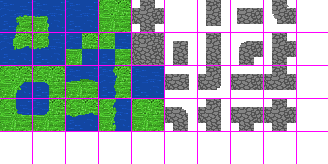
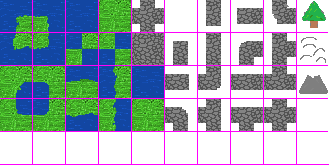
Show trees hills and mountains

Changed region(s): [[0.0, 0.0, 1.0, 1.0], [0.0305, 0.2744, 0.1524, 0.3049]]

diff --git a/GodotLords/RoadMapLayer.cs b/GodotLords/RoadMapLayer.cs
@@ -13,10 +13,16 @@ public partial class RoadMapLayer : TileMapLayer
 		for (var x = 1; x < map.Width; x++)
 			for (var y = 1; y < map.Height; y++)
 			{
-				if (map.Get(x, y) == 2)	// todo enums for types
-				{					
-		            //var tileIndex = GetTileIndex(map, x, y);
-					var tileIndex = new Vector2I(4, 1);	// We only use the tile that covers the full 32x32 sprite
+				var tileIndex = map.Get(x, y) switch 
+				{
+					TerrainType.Road => new Vector2I(4, 1),
+					TerrainType.Forest => new Vector2I(9, 0),
+					TerrainType.Hill => new Vector2I(9, 1),
+					TerrainType.Mountain => new Vector2I(9, 2),
+					_ => new Vector2I(-1,-1)
+				};
+				if (tileIndex.X > 0)	// todo...
+				{
 					this.SetCell(new Vector2I(x, y), 0, tileIndex);
 				}
 			}
@@ -26,7 +32,7 @@ public partial class RoadMapLayer : TileMapLayer
 	private Vector2I GetTileIndex(Map map, int x, int y)
 	{
 		var neighbours = new[] { map.Get(x,y-1), map.Get(x+1,y), map.Get(x,y+1), map.Get(x-1,y)};
-        var index = (neighbours[0] == 2 ? 1 : 0) + (neighbours[1] == 2 ? 1 : 0)*2 + (neighbours[2] == 2 ? 1 : 0)*4 + (neighbours[3] == 2 ? 1 : 0)*8;
+        var index = (neighbours[0] == TerrainType.Road ? 1 : 0) + (neighbours[1] == TerrainType.Road ? 1 : 0)*2 + (neighbours[2] == TerrainType.Road ? 1 : 0)*4 + (neighbours[3] == TerrainType.Road ? 1 : 0)*8;
 		var tileX = index % 4;
 		var tileY = index / 4;
         return new Vector2I(tileX+5, tileY);

diff --git a/GodotLords/Map.cs b/GodotLords/Map.cs
@@ -1,26 +1,25 @@
+using System.Collections.Generic;
 using Godot;
 
-public record Map(int[][] tiles)
+public partial record Map(TerrainType[][] tiles)
 {
     public int Height { get; set; }
     public int Width { get; set; }
-    public int Get(int x, int y) => tiles[y][x];
+    public TerrainType Get(int x, int y) => tiles[y][x];
 
-    public static Map FromImage(string path, int pixelsPerTile,  Color water, Color road)
+    public static Map FromImage(string path, int pixelsPerTile, Dictionary<Color, TerrainType> colorMapper)
     {
         var image = Image.LoadFromFile(path);
         var width = image.GetSize()[0] / pixelsPerTile;
         var height = image.GetSize()[1] / pixelsPerTile;
-        var tiles = new int[height][];
+        var tiles = new TerrainType[height][];
         for (var y = 0; y < height; y++)
         {
-            tiles[y] = new int[width];
+            tiles[y] = new TerrainType[width];
             for (var x = 0; x < width; x++)
             {
                 var color = image.GetPixel(x * pixelsPerTile, y * pixelsPerTile);
-                var isWater = color == water; 
-                var isRoad = color == road;
-                tiles[y][x] = isWater ? 0 : (isRoad ? 2 : 1);
+                tiles[y][x] = colorMapper.ContainsKey(color) ? colorMapper[color] : TerrainType.Water;
             }
         }
         

diff --git a/GodotLords/TileMapLayer.cs b/GodotLords/TileMapLayer.cs
@@ -14,7 +14,7 @@ public partial class TileMapLayer : Godot.TileMapLayer
 		for (var x = 1; x < map.Width; x++)
 			for (var y = 1; y < map.Height; y++)
 			{
-                var tileIndex = GetTileIndex(new int[] { map.Get(x-1,y-1), map.Get(x,y-1), map.Get(x-1,y), map.Get(x,y)});
+                var tileIndex = GetTileIndex(new TerrainType[] { map.Get(x-1,y-1), map.Get(x,y-1), map.Get(x-1,y), map.Get(x,y)});
 				this.SetCell(new Vector2I(x, y), 2, tileIndex);
 			}
 	}
@@ -24,7 +24,7 @@ public partial class TileMapLayer : Godot.TileMapLayer
 	{
 	}
 
-	private Vector2I GetTileIndex(int[] neighbours)
+	private Vector2I GetTileIndex(TerrainType[] neighbours)
 	{
         var offsets = new (int, int)[] {
             (2, 0),
@@ -45,7 +45,7 @@ public partial class TileMapLayer : Godot.TileMapLayer
             (3, 0),
         };
 
-        var index = (neighbours[0] != 0 ? 1 : 0) + (neighbours[1] != 0 ? 1 : 0)*2 + (neighbours[2] != 0 ? 1 : 0)*4 + (neighbours[3] != 0 ? 1 : 0)*8;
+        var index = (neighbours[0] != TerrainType.Water ? 1 : 0) + (neighbours[1] != TerrainType.Water ? 1 : 0)*2 + (neighbours[2] != TerrainType.Water ? 1 : 0)*4 + (neighbours[3] != TerrainType.Water ? 1 : 0)*8;
         var result = offsets[index];          
         return new Vector2I(result.Item1, result.Item2);
 

diff --git a/GodotLords/GameData.cs b/GodotLords/GameData.cs
@@ -1,7 +1,18 @@
 using System;
+using System.Collections.Generic;
 using Godot;
 
 public static class MapData
 {
-    public static Lazy<Map> GameMap = new Lazy<Map>(() => Map.FromImage("Resources/map.png", 2, water:Color.FromHtml("#0053c9"), road: Color.FromHtml("#555555")));
+    public static Lazy<Map> GameMap = new Lazy<Map>(() => Map.FromImage(
+        "Resources/map.png", 2, 
+        new Dictionary<Color, TerrainType>{
+            { Color.FromHtml("#0053c9"), TerrainType.Water},
+            { Color.FromHtml("#217725"), TerrainType.Grass},
+            { Color.FromHtml("#555555"), TerrainType.Road},
+            { Color.FromHtml("#9a5600"), TerrainType.Hill},
+            { Color.FromHtml("#693500"), TerrainType.Mountain},
+            { Color.FromHtml("#005500"), TerrainType.Forest},
+        }
+        ));
 }

diff --git a/GodotLords/TerrainType.cs b/GodotLords/TerrainType.cs
@@ -1,0 +1,10 @@
+public enum TerrainType
+{
+    Water,
+    Grass,
+    Road,
+    Forest,
+    Hill,
+    Mountain,
+    Swamp
+}
